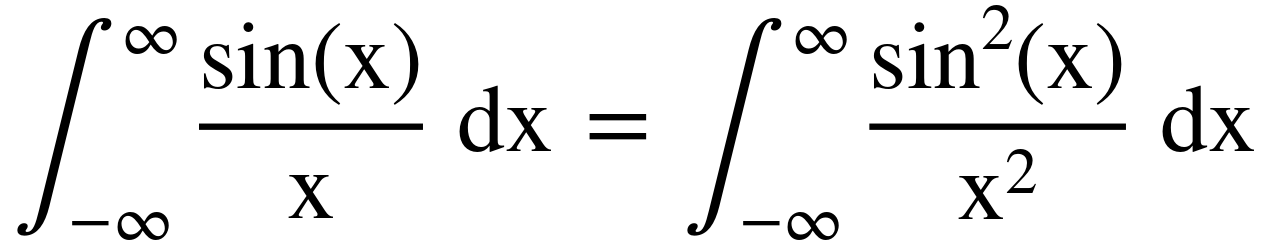
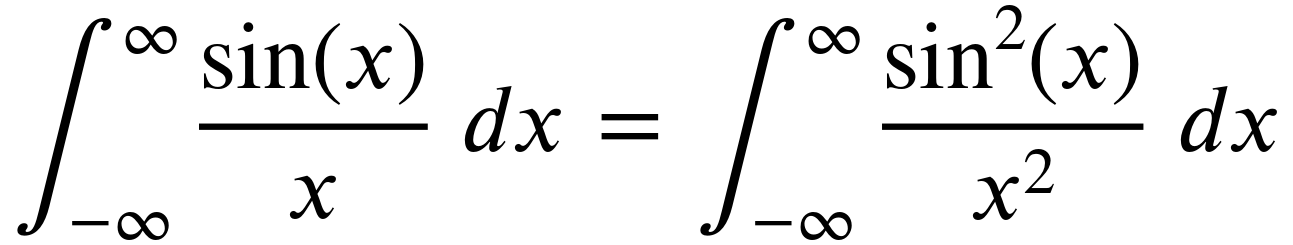
Fix default fontstyle; remove test until SVG rendering API is hashed out

diff --git a/src/font/mod.rs b/src/font/mod.rs
@@ -162,6 +162,6 @@ impl Default for Family {
 
 impl Default for Weight {
     fn default() -> Weight {
-        Weight::None
+        Weight::Italic
     }
 }
